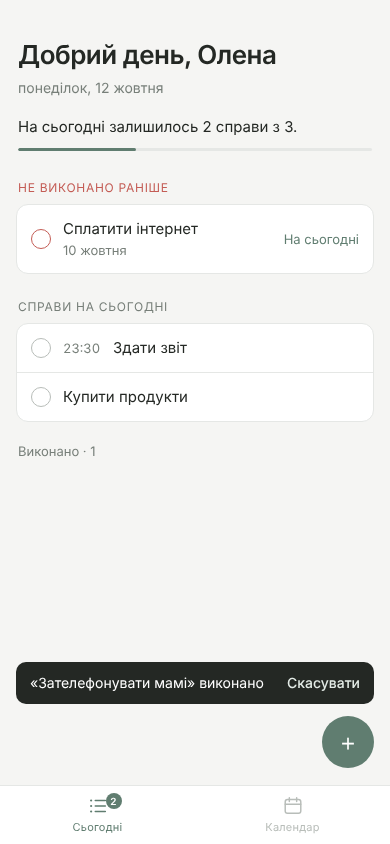
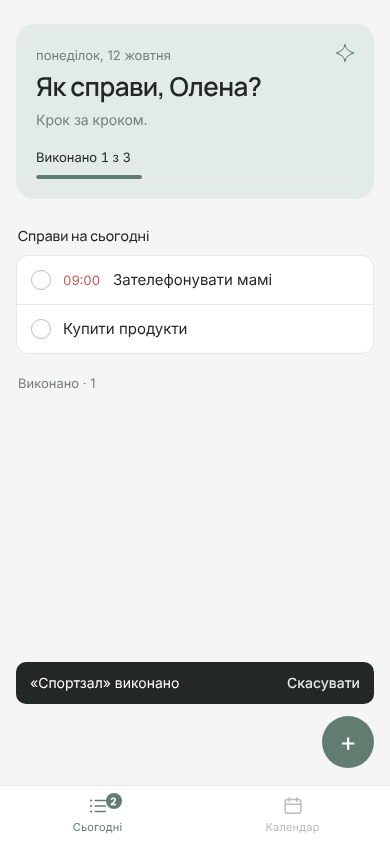
Виразний блок привітання з фразою дня, нове порожнє стан, мікроанімації, шрифти Manrope та Inter
Claude-Session: https://claude.ai/code/session_01J66XpYJ1r5iyQNBC5q1Zz3

diff --git a/webapp/style.css b/webapp/style.css
@@ -11,13 +11,15 @@
   --done: #607D70;      /* виконані завдання */
   --inactive: #B8BDB9;  /* неактивні елементи */
   --radius: 12px;
+  --font-display: "Manrope", "Inter", -apple-system, BlinkMacSystemFont, "Segoe UI", Roboto, sans-serif;
+  --font-body: "Inter", -apple-system, BlinkMacSystemFont, "Segoe UI", Roboto, sans-serif;
   color-scheme: light;
 }
 
 * { box-sizing: border-box; -webkit-tap-highlight-color: transparent; }
 html, body { margin: 0; background: var(--bg); color: var(--text); }
 body {
-  font: 15px/1.45 "Inter", -apple-system, BlinkMacSystemFont, "Segoe UI", Roboto, sans-serif;
+  font: 400 15px/1.45 var(--font-body);
   padding-bottom: calc(150px + env(safe-area-inset-bottom));
   -webkit-font-smoothing: antialiased;
 }
@@ -27,17 +29,31 @@ button { font: inherit; color: inherit; background: none; border: 0; cursor: poi
 .card { background: var(--card); border: 1px solid var(--line); border-radius: var(--radius); }
 
 /* ---------- сторінка «Сьогодні» ---------- */
-.hello { padding: 20px 2px 28px; }
-.hello h1 { margin: 0; font-size: 26px; font-weight: 600; letter-spacing: -.02em; overflow-wrap: anywhere; }
-.hello-date { margin-top: 4px; color: var(--muted); font-size: 14px; }
-.summary { margin-top: 18px; font-size: 15px; }
-.bar { margin-top: 10px; height: 3px; border-radius: 2px; background: var(--line); overflow: hidden; }
-.bar i { display: block; height: 100%; background: var(--done); border-radius: 2px; transition: width .4s; }
+.hero {
+  position: relative; margin: 8px 0 28px; padding: 22px 20px 20px;
+  background: var(--accent-soft); border-radius: 18px; overflow: hidden;
+}
+.spark {
+  position: absolute; top: 18px; right: 18px; width: 22px; height: 22px;
+  fill: none; stroke: var(--accent); stroke-width: 1.2; stroke-linejoin: round;
+  animation: spark-in .9s ease-out both;
+}
+@keyframes spark-in { from { opacity: 0; transform: rotate(-45deg) scale(.6); } }
+.hero-date { font-size: 13px; color: var(--muted); padding-right: 32px; }
+.hero h1 {
+  margin: 6px 0 0; padding-right: 28px; font: 600 26px/1.2 var(--font-display);
+  letter-spacing: -.02em; overflow-wrap: anywhere; text-wrap: balance;
+}
+.motto { margin: 8px 0 0; color: var(--muted); font-size: 14px; max-width: 34ch; }
+.hero-progress { margin-top: 18px; font-size: 13px; color: var(--text); font-variant-numeric: tabular-nums; }
+.hero-progress span { display: inline-block; }
+.bar { margin-top: 8px; height: 4px; border-radius: 2px; background: color-mix(in srgb, var(--accent) 16%, var(--card)); overflow: hidden; }
+.bar i { display: block; height: 100%; width: 0; background: var(--done); border-radius: 2px; transition: width .5s cubic-bezier(.3,.7,.3,1); }
 
 /* ---------- календар ---------- */
 .calendar { padding: 12px 10px 10px; }
 .cal-head { display: flex; align-items: center; justify-content: space-between; padding: 0 4px 10px; }
-.cal-head h1 { font-size: 15px; margin: 0; font-weight: 500; text-transform: capitalize; letter-spacing: .01em; }
+.cal-head h1 { font: 500 15px/1.3 var(--font-display); margin: 0; text-transform: capitalize; letter-spacing: .01em; }
 .icon-btn { width: 32px; height: 32px; border-radius: 8px; font-size: 20px; line-height: 1; color: var(--muted); }
 .icon-btn:active { background: var(--bg); }
 .weekdays, .grid { display: grid; grid-template-columns: repeat(7, 1fr); text-align: center; }
@@ -64,7 +80,7 @@ button { font: inherit; color: inherit; background: none; border: 0; cursor: poi
 /* ---------- день ---------- */
 .day-head { display: flex; align-items: flex-end; justify-content: space-between; margin: 28px 2px 12px; }
 .day-label { font-size: 12px; color: var(--muted); text-transform: uppercase; letter-spacing: .06em; }
-.day-head h2 { margin: 4px 0 0; font-size: 20px; font-weight: 600; letter-spacing: -.01em; }
+.day-head h2 { margin: 4px 0 0; font: 600 20px/1.25 var(--font-display); letter-spacing: -.01em; }
 
 .progress { position: relative; width: 40px; height: 40px; }
 .progress svg { width: 100%; height: 100%; transform: rotate(-90deg); }
@@ -88,10 +104,17 @@ button { font: inherit; color: inherit; background: none; border: 0; cursor: poi
   transition: background .15s, border-color .15s;
 }
 .task.done .check, .check.on { background: var(--done); border-color: var(--done); }
+.check.on { animation: fill .28s ease-out; }
+@keyframes fill { 0% { transform: scale(.8); background: transparent; } 60% { transform: scale(1.12); } 100% { transform: scale(1); } }
 .task.done .check::after, .check.on::after {
   content: ""; width: 5px; height: 9px; margin-top: -2px;
   border: solid #fff; border-width: 0 1.5px 1.5px 0; transform: rotate(45deg);
 }
+.check.on::after { animation: tick .25s .08s ease-out both; }
+@keyframes tick { from { transform: rotate(45deg) scale(0); } }
+.bump { animation: bump .35s ease-out; }
+@keyframes bump { 40% { transform: scale(1.15); } }
+@media (prefers-reduced-motion: reduce) { *, *::before, *::after { animation: none !important; transition: none !important; } }
 .task-body { flex: 1; min-width: 0; cursor: pointer; }
 .task-title { overflow-wrap: anywhere; }
 .task.done .task-title { text-decoration: line-through; color: var(--inactive); }
@@ -102,12 +125,19 @@ button { font: inherit; color: inherit; background: none; border: 0; cursor: poi
 .task.done .time { color: var(--inactive); }
 
 .overdue { margin-bottom: 24px; }
-.section-title { font-size: 12px; color: var(--muted); text-transform: uppercase; letter-spacing: .06em; padding: 0 2px 8px; }
+.section-title { font: 500 14px/1.3 var(--font-display); color: var(--text); padding: 0 2px 10px; }
 .section-title.urgent { color: var(--urgent); }
 .overdue .check { border-color: var(--urgent); }
 .move-btn { flex: none; font-size: 13px; color: var(--accent); padding: 4px 0 4px 8px; }
 
-.empty { text-align: center; color: var(--muted); font-size: 14px; padding: 36px 16px; border: 1px dashed var(--line); border-radius: var(--radius); }
+.empty { display: grid; gap: 14px; padding: 16px; background: var(--card); border: 1px solid var(--line); border-radius: var(--radius); }
+.empty-row { display: flex; align-items: center; gap: 14px; }
+.empty-icon { flex: none; width: 44px; height: 44px; border-radius: 12px; display: grid; place-items: center; background: var(--accent-soft); }
+.empty-icon svg { width: 22px; height: 22px; fill: none; stroke: var(--accent); stroke-width: 1.5; stroke-linecap: round; stroke-linejoin: round; }
+.empty-text { min-width: 0; display: grid; gap: 2px; }
+.empty-text b { font: 500 15px/1.3 var(--font-display); color: var(--text); }
+.empty-text span { font-size: 14px; color: var(--muted); }
+.empty-btn { justify-self: start; flex: none; padding: 10px 16px; font-size: 14px; }
 
 .done-block { margin-top: 20px; }
 .done-block summary { color: var(--muted); font-size: 13px; padding: 0 2px 8px; cursor: pointer; list-style: none; }
@@ -130,7 +160,7 @@ button { font: inherit; color: inherit; background: none; border: 0; cursor: poi
 }
 @keyframes up { from { transform: translateY(100%); } }
 .sheet-grip { width: 32px; height: 4px; border-radius: 2px; background: var(--line); margin: 0 auto 12px; }
-.sheet h3 { margin: 0 0 16px; font-size: 17px; font-weight: 600; }
+.sheet h3 { margin: 0 0 16px; font: 600 18px/1.3 var(--font-display); }
 .field { display: block; margin-bottom: 14px; flex: 1; min-width: 0; }
 .field span { display: block; font-size: 12px; color: var(--muted); margin-bottom: 6px; }
 .field i { font-style: normal; color: var(--inactive); }
@@ -143,6 +173,7 @@ button { font: inherit; color: inherit; background: none; border: 0; cursor: poi
 .row { display: flex; gap: 10px; }
 .sheet-actions { display: flex; gap: 8px; margin-top: 6px; }
 .btn { flex: 1; padding: 12px; border-radius: 10px; font-weight: 500; }
+.btn:focus-visible, .tab:focus-visible, .cell:focus-visible, .check:focus-visible { outline: 2px solid var(--accent); outline-offset: 2px; }
 .btn.primary { background: var(--accent); color: #fff; }
 .btn.primary:disabled { background: var(--inactive); }
 .btn.ghost { background: var(--accent-soft); color: var(--accent); }

diff --git a/webapp/app.js b/webapp/app.js
@@ -96,6 +96,14 @@ async function reload() {
 /* ---------- відображення ---------- */
 function render() { renderToday(); renderCalendar(); renderCalendarDay(); }
 
+// Змінює текст і коротко «підстрибує», якщо значення справді змінилось
+function setText(el, text) {
+  if (el.textContent === text) return;
+  const had = el.textContent !== "";
+  el.textContent = text;
+  if (had) { el.classList.remove("bump"); void el.offsetWidth; el.classList.add("bump"); }
+}
+
 function plural(n, one, few, many) {
   const m10 = n % 10, m100 = n % 100;
   if (m10 === 1 && m100 !== 11) return one;
@@ -163,6 +171,30 @@ const GREETINGS = {
   ],
 };
 
+/* Фраза дня: спокійна, без тиску. Залежить від дати — протягом дня не змінюється. */
+const MOTTOS = [
+  "Не обовʼязково встигнути все. Достатньо зробити перший крок.",
+  "Спокійно, все по порядку.",
+  "Сьогодні можна почати з малого.",
+  "Одна справа за раз — і день складеться.",
+  "Маленькі кроки теж рухають уперед.",
+  "Почнемо з головного.",
+  "Не поспішай. Головне ти встигнеш.",
+  "Простий план — спокійний день.",
+  "Відпочинок теж частина плану.",
+  "Зроби сьогодні те, за що завтра скажеш собі дякую.",
+  "Крок за кроком.",
+  "Хай цей день буде легким.",
+  "Достатньо зробити трохи більше, ніж нічого.",
+  "Добре сплановане — наполовину зроблене.",
+];
+
+function mottoFor(ds) {
+  let h = 0;
+  for (const c of ds) h = (h * 31 + c.charCodeAt(0)) >>> 0;
+  return MOTTOS[h % MOTTOS.length];
+}
+
 function dayPart(h = new Date().getHours()) {
   if (h >= 5 && h < 12) return "morning";
   if (h >= 12 && h < 18) return "day";
@@ -208,10 +240,38 @@ function renderDayList(prefix, ds, tasks) {
   $(`${prefix}-doneBlock`).hidden = !done.length;
   $(`${prefix}-doneSummary`).textContent = `Виконано · ${done.length}`;
 
-  const empty = $(`${prefix}-empty`);
-  empty.hidden = open.length > 0;
-  empty.textContent = tasks.length ? "Усе виконано" : isToday ? "На сьогодні планів немає" : "Нічого не заплановано";
+  renderEmpty($(`${prefix}-empty`), ds, tasks, open);
   return { open, done };
+}
+
+const ICONS = {
+  calendar: '<svg viewBox="0 0 24 24"><rect x="3.5" y="5" width="17" height="15" rx="2.5"/><path d="M3.5 10h17M8 3v4M16 3v4M9 14.5l2 2 4-4"/></svg>',
+  done: '<svg viewBox="0 0 24 24"><circle cx="12" cy="12" r="8.5"/><path d="M8.5 12.2l2.4 2.4 4.6-4.8"/></svg>',
+  sun: '<svg viewBox="0 0 24 24"><circle cx="12" cy="12" r="3.5"/><path d="M12 3v2M12 19v2M3 12h2M19 12h2M5.6 5.6l1.4 1.4M17 17l1.4 1.4M5.6 18.4 7 17M17 7l1.4-1.4"/></svg>',
+};
+
+// Порожній стан: легка картка з іконкою, коротким текстом і кнопкою
+function renderEmpty(el, ds, tasks, open) {
+  el.hidden = open.length > 0;
+  if (!el.hidden) {
+    const isToday = ds === state.today;
+    const [icon, title, text, withBtn] = tasks.length
+      ? ["done", "Усе виконано", "Чудова робота. Решта дня — для тебе.", false]
+      : isToday
+        ? ["calendar", "Поки що вільний день", "Можеш відпочити або запланувати щось нове.", true]
+        : ds < state.today
+          ? ["sun", "Цей день був вільним", "Тут нічого не було заплановано.", false]
+          : ["calendar", "Нічого не заплановано", "Додай справу на цей день, коли буде потрібно.", true];
+    el.innerHTML = `
+      <div class="empty-row">
+        <span class="empty-icon">${ICONS[icon]}</span>
+        <div class="empty-text"><b></b><span></span></div>
+      </div>
+      ${withBtn ? '<button class="btn primary empty-btn" type="button">+ Додати завдання</button>' : ""}`;
+    el.querySelector("b").textContent = title;
+    el.querySelector(".empty-text span").textContent = text;
+    el.querySelector(".empty-btn")?.addEventListener("click", () => openSheet(null));
+  }
 }
 
 function renderToday() {
@@ -221,14 +281,13 @@ function renderToday() {
 
   const { open, done } = renderDayList("t", state.today, tasks);
   const n = tasks.length;
-  $("summary").textContent = !n
-    ? "Можна відпочити або запланувати щось нове."
-    : !open.length
-      ? `Усі ${n} ${plural(n, "справу", "справи", "справ")} виконано. Чудовий день!`
-      : `На сьогодні ${open.length === n ? "" : "залишилось "}${open.length} ${plural(open.length, "справа", "справи", "справ")}` +
-        (done.length ? ` з ${n}` : "") + ".";
-  $("summaryBar").hidden = !n;
-  $("summaryBar").firstElementChild.style.width = n ? `${(done.length / n) * 100}%` : "0";
+  $("motto").textContent = mottoFor(state.today);
+  // прогрес показуємо лише коли є справи — щоб не тиснути порожнім лічильником
+  $("heroProgress").hidden = !n;
+  if (n) {
+    setText($("progressLabel"), !open.length ? `Виконано всі ${n} з ${n}` : `Виконано ${done.length} з ${n}`);
+    $("progressFill").style.width = `${(done.length / n) * 100}%`;
+  }
   $("t-listTitle").hidden = !open.length;
 
   const showOverdue = state.overdue.length > 0;
@@ -237,7 +296,7 @@ function renderToday() {
 
   const badge = $("todayBadge");
   badge.hidden = !open.length;
-  badge.textContent = open.length;
+  setText(badge, String(open.length));
 }
 
 function renderCalendar() {
@@ -351,7 +410,13 @@ function shiftMonth(n) {
 async function toggleDone(t, li, check) {
   const next = !t.done;
   haptic(next ? "success" : "light");
-  if (next) { check.classList.add("on"); li.classList.add("leaving"); await new Promise((r) => setTimeout(r, 260)); }
+  if (next) {
+    // спершу чекбокс плавно заповнюється, потім рядок відʼїжджає
+    check.classList.add("on");
+    await new Promise((r) => setTimeout(r, 280));
+    li.classList.add("leaving");
+    await new Promise((r) => setTimeout(r, 240));
+  }
   try {
     const updated = await api("PATCH", `/api/tasks/${t.id}`, { done: next });
     await reload();

diff --git a/webapp/index.html b/webapp/index.html
@@ -6,16 +6,23 @@
   <meta name="viewport" content="width=device-width, initial-scale=1, viewport-fit=cover">
   <title>Планер справ</title>
   <script src="https://telegram.org/js/telegram-web-app.js"></script>
+  <link rel="preconnect" href="https://fonts.googleapis.com">
+  <link rel="preconnect" href="https://fonts.gstatic.com" crossorigin>
+  <link rel="stylesheet" href="https://fonts.googleapis.com/css2?family=Inter:wght@400;500&family=Manrope:wght@500;600&display=swap">
   <link rel="stylesheet" href="/static/style.css">
 </head>
 <body>
   <!-- Сторінка 1: нагадувалка на сьогодні -->
   <main class="app page" id="page-today">
-    <header class="hello">
+    <header class="hero">
+      <svg class="spark" viewBox="0 0 24 24" aria-hidden="true"><path d="M12 2.5c.6 4.9 2.9 7.3 9.5 9.5-6.6 2.2-8.9 4.6-9.5 9.5-.6-4.9-2.9-7.3-9.5-9.5 6.6-2.2 8.9-4.6 9.5-9.5Z"/></svg>
+      <div class="hero-date" id="todayDate"></div>
       <h1 id="greeting">Привіт</h1>
-      <div class="hello-date" id="todayDate"></div>
-      <div class="summary" id="summary"></div>
-      <div class="bar" id="summaryBar" hidden><i></i></div>
+      <p class="motto" id="motto"></p>
+      <div class="hero-progress" id="heroProgress" hidden>
+        <span id="progressLabel"></span>
+        <div class="bar"><i id="progressFill"></i></div>
+      </div>
     </header>
 
     <section class="overdue" id="t-overdue" hidden>
